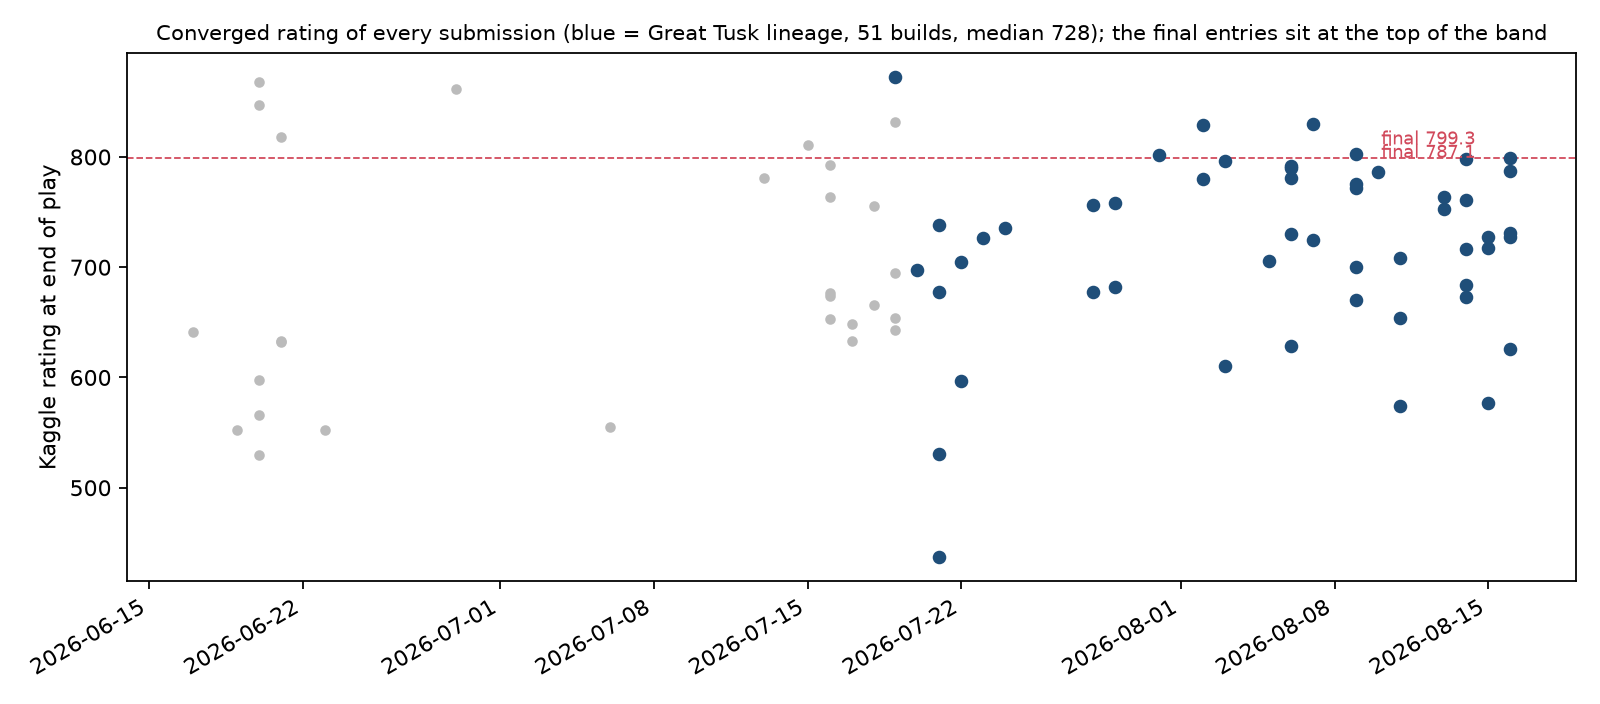
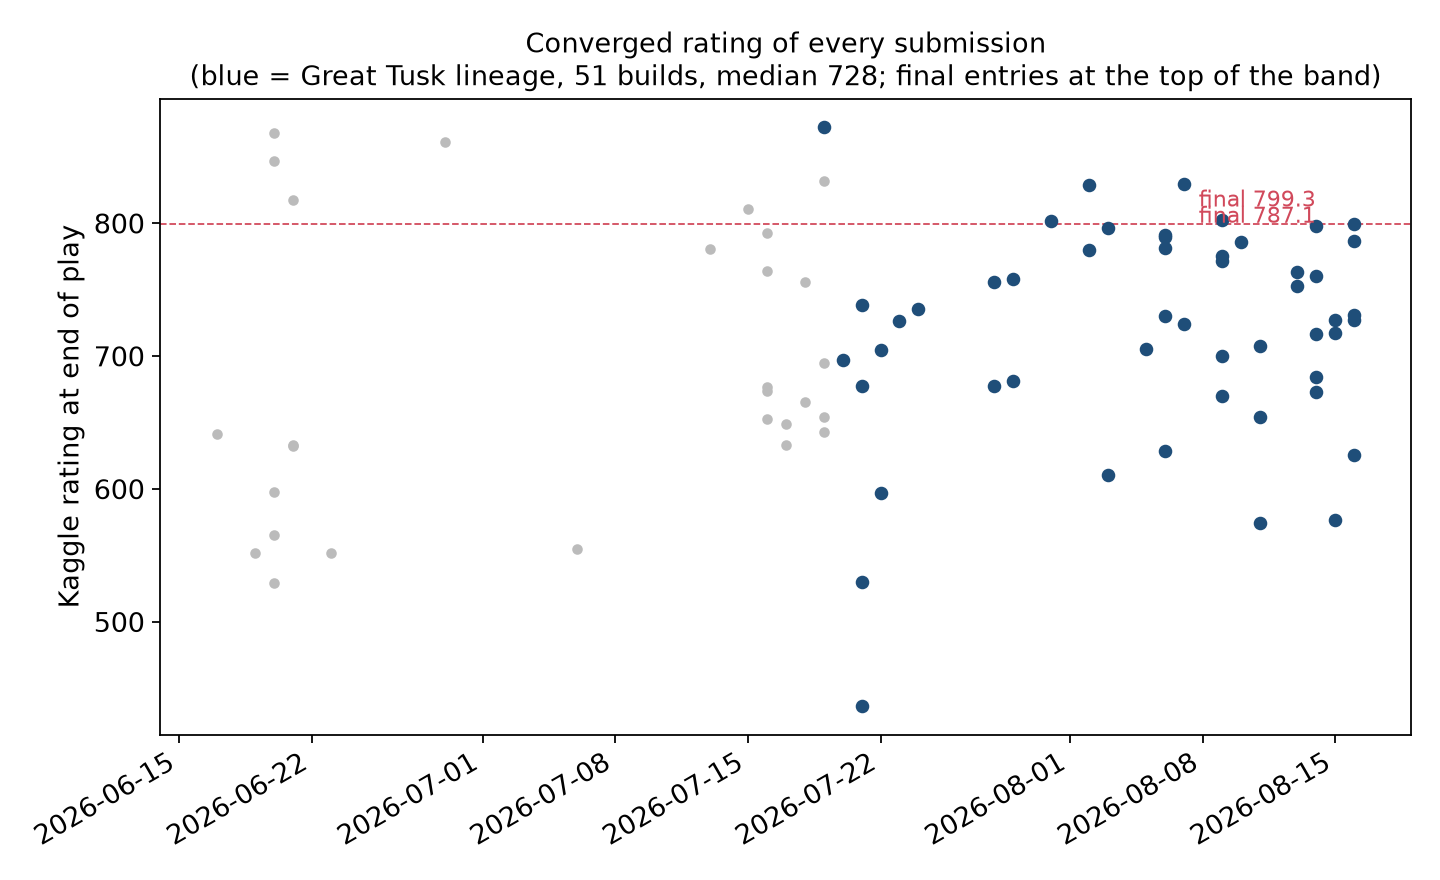
Regenerate figures for Kaggle column width: larger fonts, corrected deck concept (Hammer x2, Jumbo Ice Cream), three rejected evaluators

diff --git a/docs/writeup/make_diagrams.py b/docs/writeup/make_diagrams.py
@@ -48,10 +48,10 @@ def arrow(ax, p0, p1, color=MUTED):
 # ---------------------------------------------------------------------------
 # Diagram 1: confidence-ladder architecture
 # ---------------------------------------------------------------------------
-fig, ax = plt.subplots(figsize=(8.6, 8.6), dpi=200)
+fig, ax = plt.subplots(figsize=(8.6, 7.0), dpi=200)
 fig.patch.set_facecolor(SURFACE)
 ax.set_xlim(0, 10)
-ax.set_ylim(0, 13.2)
+ax.set_ylim(2.4, 13.2)
 ax.axis("off")
 
 ax.text(0.1, 12.75, "The confidence ladder: match the tool to how certain the decision is",
@@ -64,11 +64,11 @@ gap = 0.5
 top = 10.5
 rows = [
     dict(fc=BLUE_L, ec=BLUE, tag="1 · Deterministic math",
-         body="Deck-out countdown, prize-trade race,\nexact outs by hypergeometric count",
+         body="Deck-out countdown and Prize race;\nexact outs by hypergeometric count",
          tool="Race calculator\n(closed-form, no search)"),
     dict(fc=AQUA_L, ec=AQUA, tag="2 · Near-perfect information",
-         body="Endgame: both decks are thin enough\nthat hidden information barely matters",
-         tool="Let the search actually\nplay it out (endgame PUCT)"),
+         body="Endgame: both decks thin, hidden\ninformation barely matters",
+         tool="Let the search play it\nout (endgame PUCT)"),
     dict(fc=ORANGE_L, ec=ORANGE, tag="3 · Genuinely uncertain",
          body="Mid-game board state with real\nhidden information on both sides",
          tool="Trained leaf evaluator\n(2 profiles: press / grind)"),
@@ -79,18 +79,18 @@ rows = [
 
 for i, r in enumerate(rows):
     y = top - i * (row_h + gap)
-    box(ax, (0.1, y), 3.1, row_h, r["tag"], "#ffffff", r["ec"], tcolor=INK, fs=9.7, weight="bold", radius=0.08)
-    box(ax, (3.5, y), 3.3, row_h, r["body"], r["fc"], r["ec"], fs=8.8)
-    box(ax, (7.1, y), 2.8, row_h, r["tool"], "#ffffff", r["ec"], fs=9.0, weight="bold")
+    box(ax, (0.1, y), 3.0, row_h, r["tag"], "#ffffff", r["ec"], tcolor=INK, fs=9.2, weight="bold", radius=0.08)
+    box(ax, (3.35, y), 3.5, row_h, r["body"], r["fc"], r["ec"], fs=8.3)
+    box(ax, (7.1, y), 2.8, row_h, r["tool"], "#ffffff", r["ec"], fs=8.6, weight="bold")
 
 last_row_y = top - (len(rows) - 1) * (row_h + gap)
 footer_y = last_row_y - 0.45
 ax.text(0.1, footer_y,
         "Layers 1-2-4 stay deterministic and inspectable; layer 3 is the only place a learned\n"
-        "model is allowed to operate. Two rejected upgrades (a gradient-boosted evaluator, a\n"
-        "neural value net) both targeted layer 3 and both failed controlled A/B tests — evidence\n"
-        "the bottleneck was never leaf-evaluation quality. The one confirmed win, endgame PUCT,\n"
-        "targeted layer 2 instead: restructuring search where information is most complete.",
+        "model is allowed to operate. Three rejected upgrades (GBDT, policy clone, value net)\n"
+        "all targeted layer 3 and all failed controlled A/B tests — evidence the bottleneck was\n"
+        "never leaf-evaluation quality. The one confirmed win, endgame PUCT, targeted layer 2:\n"
+        "restructuring search where information is most complete.",
         fontsize=8.6, color=INK2, linespacing=1.6, va="top")
 
 fig.savefig(os.path.join(OUT, "04_confidence_ladder.png"), facecolor=SURFACE, bbox_inches="tight", pad_inches=0.25)
@@ -114,27 +114,27 @@ ax.text(0.1, 7.8, "60 cards, four jobs. No card is in the list without one of th
 # Column boxes (four jobs)
 cols = [
     dict(x=0.1, fc=BLUE_L, ec=BLUE, title="Real damage,\ncheap to give up",
-         body="Great Tusk ×4 — Basic,\n140 HP, 160 dmg for 4\nenergy. Non-Rule-Box:\nthe opponent gives up\nonly 1 Prize to KO it."),
+         body="Great Tusk ×4 — Basic,\n140 HP. Land Collapse\nmills 1–4 cards a turn;\nGiant Tusk hits 160.\nNon-Rule-Box: only\n1 Prize to KO it."),
     dict(x=2.55, fc=AQUA_L, ec=AQUA, title="A wall that\nsearches itself",
-         body="Dwebble ×4 → Crustle ×4.\nDwebble's Ascension tutors\nthe evolution straight from\ndeck (thins it); Crustle's\n120 dmg ignores effects\non the opponent's Active."),
+         body="Dwebble ×4 → Crustle ×4.\nAscension tutors the\nevolution from the deck\n(thins it). Crustle: ex\nattacks deal 0; 120 dmg\nignores Active effects."),
     dict(x=5.0, fc=ORANGE_L, ec=ORANGE, title="Take away their\nturn, not their HP",
-         body="Crushing Hammer ×4 (energy\ndenial), Xerosic's\nMachinations ×2 (hand\ndown to 3), Budew ×1\n(locks Items one turn)."),
+         body="Crushing Hammer ×2\n(energy denial), Xerosic's\nMachinations ×2 (hand\nto 3), Budew ×1 (Item\nlock), Jumbo Ice Cream\n×2 (heal 80)."),
     dict(x=7.45, fc=YELLOW_L, ec=YELLOW, title="Make their ex/V\nswing for nothing",
-         body="Neutralization Zone ×1\n(ACE SPEC): no damage\nfrom opponent ex/V\nattacks to non-Rule-Box\nPokémon. Battle Cage ×2\nshields the bench too."),
+         body="Neutralization Zone ×1\n(ACE SPEC): no damage\nfrom ex/V attacks to\nnon-Rule-Box Pokémon.\nRock Fighting ×4, Mist\n×2; Battle Cage ×2."),
 ]
 
 for c in cols:
     box(ax, (c["x"], 6.1), 2.2, 1.55, c["title"], "#ffffff", c["ec"], fs=9.6, weight="bold", radius=0.09)
-    box(ax, (c["x"], 3.55), 2.2, 2.35, c["body"], c["fc"], c["ec"], fs=7.9)
+    box(ax, (c["x"], 3.55), 2.2, 2.35, c["body"], c["fc"], c["ec"], fs=7.6)
     arrow(ax, (c["x"] + 1.1, 6.1), (c["x"] + 1.1, 5.9))
 
 # convergence arrow to outcome box
 for c in cols:
     arrow(ax, (c["x"] + 1.1, 3.55), (5.0, 2.5), color=MUTED)
 
-box(ax, (2.6, 1.15), 4.8, 1.35,
-    "Outcome: the opponent runs out of resources and deck\nbefore Great Tusk / Crustle run out of ways to survive",
-    "#ffffff", INK2, fs=9.6, weight="bold", radius=0.1)
+box(ax, (2.2, 1.15), 5.6, 1.35,
+    "Outcome: the opponent runs out of deck\nbefore Great Tusk / Crustle run out of ways to survive",
+    "#ffffff", INK2, fs=9.4, weight="bold", radius=0.1)
 
 ax.text(0.1, 0.75,
         "Support engine (Poké Pad, Explorer's Guidance, Lillie's Determination, Counter Gain, Switch,\n"

diff --git a/analysis/make_lb_figs.py b/analysis/make_lb_figs.py
@@ -17,17 +17,18 @@ def famkey(f): return f if f in fams else 'Other'
 share=np.array([[sum(1 for r in LO if r['date']==d and famkey(r['fam'])==f)/max(1,sum(1 for r in LO if r['date']==d)) for f in fams] for d in days])
 wr=[100*sum(1 for r in LO if r['date']==d and r['win'])/sum(1 for r in LO if r['date']==d) for d in days]
 n=[sum(1 for r in LO if r['date']==d) for d in days]
-fig,ax=plt.subplots(figsize=(11,4.8),dpi=160)
+plt.rcParams.update({'font.size':12})
+fig,ax=plt.subplots(figsize=(9,6),dpi=160)
 x=np.arange(len(days)); bottom=np.zeros(len(days))
 for i,f in enumerate(fams):
     ax.bar(x, 100*share[:,i], bottom=bottom, color=cols[f], width=0.85, label=f, linewidth=0); bottom+=100*share[:,i]
 ax.set_ylabel('opponent pool composition (%)'); ax.set_ylim(0,100)
 ax2=ax.twinx(); ax2.plot(x, wr, color='#d1495b', lw=2, marker='o', ms=3, label='our daily win rate'); ax2.axhline(50, color='#d1495b', lw=0.8, ls='--'); ax2.set_ylim(0,100); ax2.set_ylabel('daily win rate (%)', color='#d1495b')
-ax.set_xticks(x[::3]); ax.set_xticklabels([d[5:] for d in days][::3], rotation=45, fontsize=8)
+ax.set_xticks(x[::4]); ax.set_xticklabels([d[5:] for d in days][::4], rotation=45, fontsize=11)
 gap=[i for i,d in enumerate(days) if d=='2026-08-21']
-if gap: ax.axvline(gap[0]-0.5, color='k', lw=1, ls=':'); ax.text(gap[0]-0.4, 92, 'submission deadline (Aug 16); post-deadline episodes →', fontsize=7.5)
-h1,l1=ax.get_legend_handles_labels(); h2,l2=ax2.get_legend_handles_labels(); ax.legend(h1+h2,l1+l2, loc='lower left', fontsize=7, ncol=3, framealpha=0.9)
-ax.set_title(f'Great Tusk lineage on the Kaggle ladder, Jul 19 – Aug 31: {len(LO):,} games across {len(set(r["sid"] for r in LO))} submissions. Daily win rate stays near 50% while the pool rotates.', fontsize=9.5)
+if gap: ax.axvline(gap[0]-0.5, color='k', lw=1, ls=':'); ax.text(gap[0]-0.4, 93, 'deadline Aug 16 →', fontsize=10)
+h1,l1=ax.get_legend_handles_labels(); h2,l2=ax2.get_legend_handles_labels(); ax.legend(h1+h2,l1+l2, loc='lower left', fontsize=9, ncol=3, framealpha=0.9)
+ax.set_title(f'Great Tusk lineage on the ladder, Jul 19 – Aug 31 ({len(LO):,} games, {len(set(r["sid"] for r in LO))} builds):\ndaily win rate stays near 50% while the opponent pool rotates', fontsize=12)
 fig.tight_layout(); fig.savefig(OUT+'/08_ladder_daily.png'); plt.close(fig)
 # ---- Fig B: matchup profile before/after Aug 17
 famsB=['Mega Lucario','Archaludon','Garchomp','Dragapult','Alakazam','Grimmsnarl','Crustle/LO','Other']
@@ -35,14 +36,14 @@ def stats(rs,f):
     x=[r for r in rs if famkey(r['fam'])==f or r['fam']==f]; k=len(x); w=sum(r['win'] for r in x)
     p=w/k if k else 0; se=1.96*np.sqrt(p*(1-p)/k) if k else 0; return 100*p,100*se,k
 pre=[r for r in LO if r['date']<'2026-08-17']; post=[r for r in LO if r['date']>='2026-08-17']
-fig,ax=plt.subplots(figsize=(9,4.6),dpi=160); x=np.arange(len(famsB)); w=0.38
+fig,ax=plt.subplots(figsize=(9,6),dpi=160); x=np.arange(len(famsB)); w=0.38
 for off,(rs,lab,c) in enumerate(((pre,'before Aug 17 (earlier builds)','#9bb7d4'),(post,'Aug 17 onward (final build)','#1f4e79'))):
     v=[stats(rs,f) for f in famsB]
     ax.bar(x+(off-0.5)*w, [a for a,_,_ in v], w, yerr=[b for _,b,_ in v], color=c, label=lab, capsize=2, error_kw=dict(lw=0.8))
-    for i,(a,_,k) in enumerate(v): ax.text(x[i]+(off-0.5)*w, a+3.5, f'n={k}', ha='center', fontsize=6.5, color='#333')
+    for i,(a,_,k) in enumerate(v): ax.text(x[i]+(off-0.5)*w, a+3.5, f'n={k}', ha='center', fontsize=8.5, color='#333')
 ax.axhline(50, color='#999', lw=0.8, ls='--'); ax.set_ylim(0,90); ax.set_ylabel('ladder win rate (%) with 95% CI')
-ax.set_xticks(x); ax.set_xticklabels(famsB, fontsize=8.5); ax.legend(fontsize=8)
-ax.set_title('Matchup profile on the ladder: strong into Lucario / Archaludon, even into Alakazam, Grimmsnarl closed from 46% to 52%', fontsize=9.5)
+ax.set_xticks(x); ax.set_xticklabels(famsB, fontsize=10, rotation=20); ax.legend(fontsize=10)
+ax.set_title('Ladder win rate by opponent deck (95% CI):\nstrong into Lucario / Archaludon, even into Alakazam, Grimmsnarl 45% → 52%', fontsize=12)
 fig.tight_layout(); fig.savefig(OUT+'/09_ladder_matchups.png'); plt.close(fig)
 # ---- Fig C: submission ratings over time
 subs=list(csv.DictReader(open(BASE+'/submissions.csv')))
@@ -53,16 +54,16 @@ for s in subs:
     fn=(s['fileName'] or '')
     lo = s['date']>='2026-07-19' and not any(k in fn.lower() for k in ('dragapult','alakazam','lucario','hop'))
     pts.append((s['date'][:10], sc, lo, s['ref']))
-fig,ax=plt.subplots(figsize=(10,4.4),dpi=160)
+fig,ax=plt.subplots(figsize=(9,5.5),dpi=160)
 import datetime as dt
 for d,sc,lo,ref in pts:
     dd=dt.datetime.strptime(d,'%Y-%m-%d')
     ax.scatter(dd, sc, s=26 if lo else 14, color='#1f4e79' if lo else '#bbbbbb', zorder=3 if lo else 2)
 fin=[p for p in pts if p[3] in ('55565056','55565424')]
-for d,sc,lo,ref in fin: ax.annotate(f'final {sc}', (dt.datetime.strptime(d,'%Y-%m-%d'), sc), xytext=(-58,6), textcoords='offset points', fontsize=8, color='#d1495b')
+for d,sc,lo,ref in fin: ax.annotate(f'final {sc}', (dt.datetime.strptime(d,'%Y-%m-%d'), sc), xytext=(-70,8), textcoords='offset points', fontsize=10, color='#d1495b')
 ax.axhline(799.3, color='#d1495b', lw=0.8, ls='--')
 los=[sc for _,sc,lo,_ in pts if lo]
-ax.set_title(f'Converged rating of every submission (blue = Great Tusk lineage, {len(los)} builds, median {np.median(los):.0f}); the final entries sit at the top of the band', fontsize=9.5)
+ax.set_title(f'Converged rating of every submission\n(blue = Great Tusk lineage, {len(los)} builds, median {np.median(los):.0f}; final entries at the top of the band)', fontsize=12)
 ax.set_ylabel('Kaggle rating at end of play'); fig.autofmt_xdate(); fig.tight_layout(); fig.savefig(OUT+'/10_submission_ratings.png'); plt.close(fig)
 print('LO subs', len(los), 'median', np.median(los), 'max', max(los), 'min', min(los))
 print('pre n', len(pre), 'post n', len(post))

diff --git a/analysis/make_hyp_table.py b/analysis/make_hyp_table.py
@@ -1,0 +1,25 @@
+import matplotlib; matplotlib.use("Agg"); import matplotlib.pyplot as plt, sys, textwrap
+rows=[("Rule sweep, 40 versions","hand-written heuristics only","~40,000 games","plateau at 48.7%","ceiling reached"),
+("Search harness ported","determinized search + rule rollouts","15 proxies","48.7% → 67.2%","adopt (H1 confirmed)"),
+("Human-review loop","reviewed fixes, SPRT-gated","n = 1,632","→ 71.2%","adopt"),
+("Mid-game evaluators ×3","GBDT / policy clone / value net","matched AUC + A/B","0 of 3 cleared bar","reject"),
+("Endgame PUCT","tree search in thin-deck regime","192-game gate","+7.8 pt vs one archetype, no confirmed loss","adopt (H2 confirmed)"),
+("Prior ablation","rule prior vs uniform, same tree","same gate","tree structure carries the gain","keep"),
+("Belief layer","probabilistic hand reading","192 × 8 opponents","58.8% → 61.5%; −6.3 pt vs Alakazam","not merged"),
+("Five final submissions","one reviewed loss fixed per version","live ladder","Grimmsnarl 45% → 52%","ship")]
+widths=[16,22,15,26,16]
+wrap=lambda s,w: "\n".join(textwrap.wrap(s,w))
+cells=[[wrap(c,w) for c,w in zip(r,widths)] for r in rows]
+cols=["Step","Change","Sample","Effect (proxy league;\nsee §6 on its bias)","Decision"]
+fig,ax=plt.subplots(figsize=(10,7.4),dpi=160); ax.axis('off')
+tb=ax.table(cellText=cells,colLabels=cols,cellLoc='left',colLoc='left',colWidths=[0.17,0.24,0.16,0.27,0.16],bbox=[0,0,1,0.94])
+tb.auto_set_font_size(False); tb.set_fontsize(10.5)
+for (r,c),cell in tb.get_celld().items():
+    cell.set_edgecolor('#cccccc'); cell.PAD=0.04
+    txt=cell.get_text().get_text(); n=txt.count('\n')+1
+    cell.set_height(0.055*max(n,2) + 0.02)
+    if r==0: cell.set_facecolor('#e8eef7'); cell.set_text_props(fontweight='bold')
+    elif rows[r-1][4].startswith('adopt') or rows[r-1][4] in ('ship','keep'): cell.set_facecolor('#f1f8f1')
+    elif rows[r-1][4] in ('reject','not merged'): cell.set_facecolor('#fbf1f1')
+fig.suptitle("Hypotheses tested: step, change, sample, effect, decision", fontsize=13, x=0.01, ha='left', y=0.99)
+fig.savefig(sys.argv[1], bbox_inches='tight'); print("saved")
